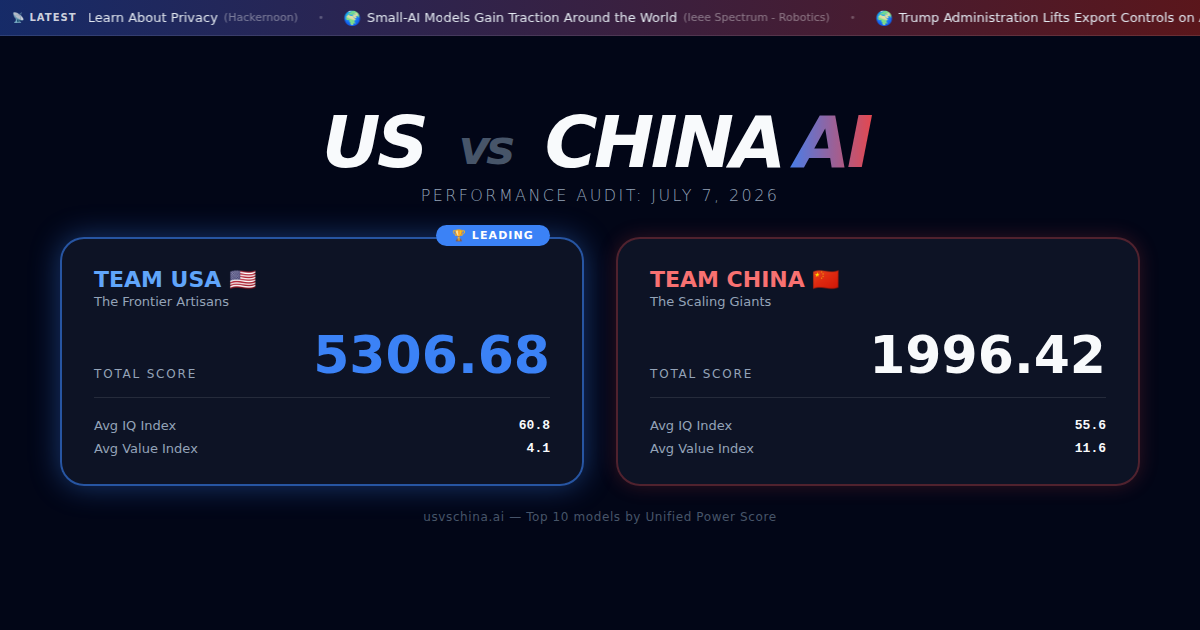
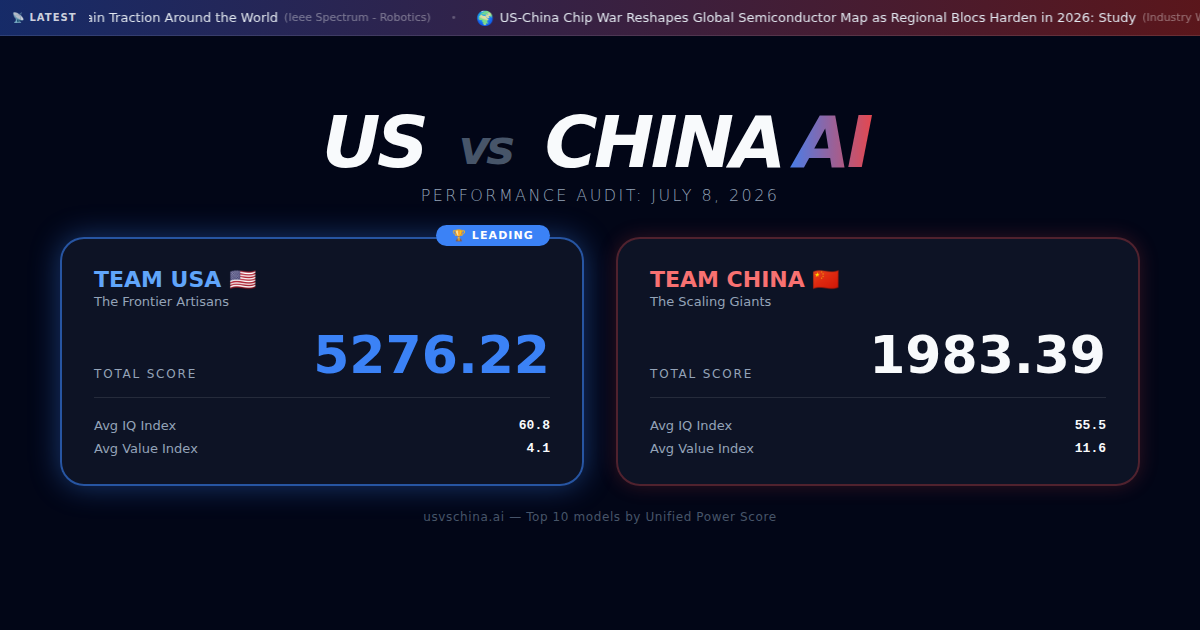
Daily scrape run - 2026-07-08T05:08:37 UTC

diff --git a/about.html b/about.html
@@ -27,7 +27,7 @@
     <meta property="og:url" content="https://usvschina.ai/about.html">
     <meta property="og:title" content="US vs CHINA AI | About - Methodology & Scoring Explained">
     <meta property="og:description" content="Learn how US vs CHINA AI ranks AI models. Understand the scoring methodology and benchmarks.">
-    <meta property="og:image" content="https://usvschina.ai/og-image.png?v=1783401665">
+    <meta property="og:image" content="https://usvschina.ai/og-image.png?v=1783487317">
     <meta property="og:image:width" content="1200">
     <meta property="og:image:height" content="630">
     <meta property="og:image:type" content="image/png">
@@ -39,7 +39,7 @@
     <meta name="twitter:url" content="https://usvschina.ai/about.html">
     <meta name="twitter:title" content="US vs CHINA AI | About - Methodology & Scoring Explained">
     <meta name="twitter:description" content="Learn how US vs CHINA AI ranks AI models. Understand the scoring methodology and benchmarks.">
-    <meta name="twitter:image" content="https://usvschina.ai/og-image.png?v=1783401665">
+    <meta name="twitter:image" content="https://usvschina.ai/og-image.png?v=1783487317">
     
     <!-- Additional SEO/AEO Meta -->
     <!-- theme-color is injected at runtime below to keep the HTML lint-clean

diff --git a/history.html b/history.html
@@ -27,7 +27,7 @@
     <meta property="og:url" content="https://usvschina.ai/history.html">
     <meta property="og:title" content="US vs CHINA AI | Historical Archives - AI Race Timeline">
     <meta property="og:description" content="Track the history of the US vs China AI race. See how AI model rankings have changed over time.">
-    <meta property="og:image" content="https://usvschina.ai/og-image.png?v=1783401665">
+    <meta property="og:image" content="https://usvschina.ai/og-image.png?v=1783487317">
     <meta property="og:image:width" content="1200">
     <meta property="og:image:height" content="630">
     <meta property="og:image:type" content="image/png">
@@ -39,7 +39,7 @@
     <meta name="twitter:url" content="https://usvschina.ai/history.html">
     <meta name="twitter:title" content="US vs CHINA AI | Historical Archives - AI Race Timeline">
     <meta name="twitter:description" content="Track the history of the US vs China AI race. See how AI model rankings have changed over time.">
-    <meta name="twitter:image" content="https://usvschina.ai/og-image.png?v=1783401665">
+    <meta name="twitter:image" content="https://usvschina.ai/og-image.png?v=1783487317">
     
     <!-- Additional SEO/AEO Meta -->
     <!-- theme-color is injected at runtime below to keep the HTML lint-clean

diff --git a/index.html b/index.html
@@ -27,7 +27,7 @@
     <meta property="og:url" content="https://usvschina.ai/">
     <meta property="og:title" content="US vs CHINA AI | Global Leaderboard - Compare Top AI Models 2025">
     <meta property="og:description" content="Compare the world's best AI models ranked by intelligence and cost efficiency. Track which country is winning the AI race.">
-    <meta property="og:image" content="https://usvschina.ai/og-image.png?v=1783401665">
+    <meta property="og:image" content="https://usvschina.ai/og-image.png?v=1783487317">
     <meta property="og:image:width" content="1200">
     <meta property="og:image:height" content="630">
     <meta property="og:image:type" content="image/png">
@@ -39,7 +39,7 @@
     <meta name="twitter:url" content="https://usvschina.ai/">
     <meta name="twitter:title" content="US vs CHINA AI | Global Leaderboard - Compare Top AI Models 2025">
     <meta name="twitter:description" content="Compare the world's best AI models ranked by intelligence and cost efficiency. Track which country is winning the AI race.">
-    <meta name="twitter:image" content="https://usvschina.ai/og-image.png?v=1783401665">
+    <meta name="twitter:image" content="https://usvschina.ai/og-image.png?v=1783487317">
     
     <!-- Additional SEO/AEO Meta -->
     <!-- theme-color is injected at runtime below to keep the HTML lint-clean

diff --git a/privacy.html b/privacy.html
@@ -27,7 +27,7 @@
     <meta property="og:url" content="https://usvschina.ai/privacy.html">
     <meta property="og:title" content="US vs CHINA AI | Privacy Policy">
     <meta property="og:description" content="Privacy policy for US vs CHINA AI. We do not collect personal data.">
-    <meta property="og:image" content="https://usvschina.ai/og-image.png?v=1783401665">
+    <meta property="og:image" content="https://usvschina.ai/og-image.png?v=1783487317">
     <meta property="og:image:width" content="1200">
     <meta property="og:image:height" content="630">
     <meta property="og:image:type" content="image/png">
@@ -39,7 +39,7 @@
     <meta name="twitter:url" content="https://usvschina.ai/privacy.html">
     <meta name="twitter:title" content="US vs CHINA AI | Privacy Policy">
     <meta name="twitter:description" content="Privacy policy for US vs CHINA AI. We do not collect personal data.">
-    <meta name="twitter:image" content="https://usvschina.ai/og-image.png?v=1783401665">
+    <meta name="twitter:image" content="https://usvschina.ai/og-image.png?v=1783487317">
 
     <!-- Additional SEO/AEO Meta -->
     <!-- theme-color is injected at runtime below to keep the HTML lint-clean

diff --git a/terms.html b/terms.html
@@ -27,7 +27,7 @@
     <meta property="og:url" content="https://usvschina.ai/terms.html">
     <meta property="og:title" content="US vs CHINA AI | Terms of Service">
     <meta property="og:description" content="Terms of Service for US vs CHINA AI. Derived data disclaimers and limitations.">
-    <meta property="og:image" content="https://usvschina.ai/og-image.png?v=1783401665">
+    <meta property="og:image" content="https://usvschina.ai/og-image.png?v=1783487317">
     <meta property="og:image:width" content="1200">
     <meta property="og:image:height" content="630">
     <meta property="og:image:type" content="image/png">
@@ -39,7 +39,7 @@
     <meta name="twitter:url" content="https://usvschina.ai/terms.html">
     <meta name="twitter:title" content="US vs CHINA AI | Terms of Service">
     <meta name="twitter:description" content="Terms of Service for US vs CHINA AI. Derived data disclaimers and limitations.">
-    <meta name="twitter:image" content="https://usvschina.ai/og-image.png?v=1783401665">
+    <meta name="twitter:image" content="https://usvschina.ai/og-image.png?v=1783487317">
 
     <!-- Additional SEO/AEO Meta -->
     <!-- theme-color is injected at runtime below to keep the HTML lint-clean